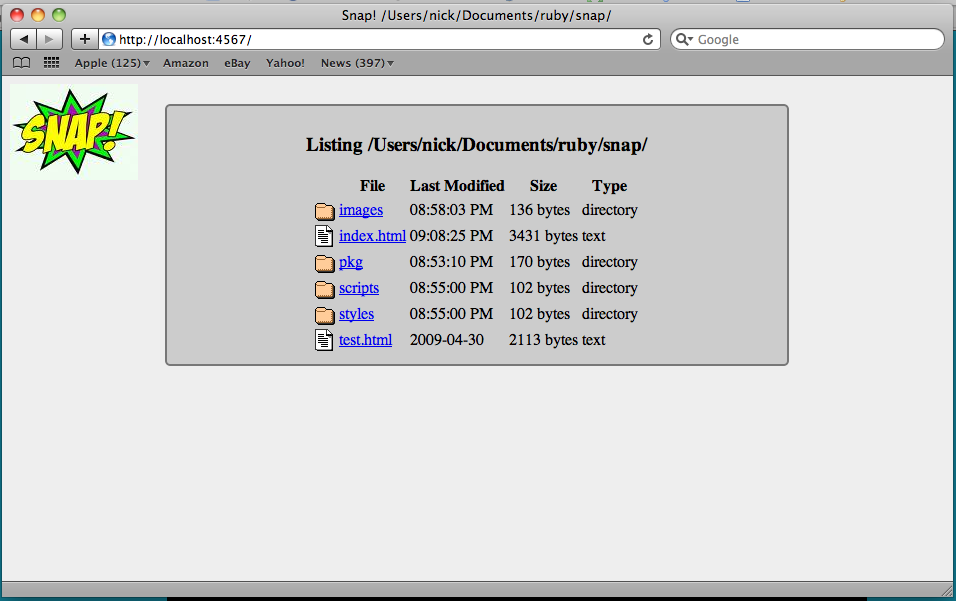
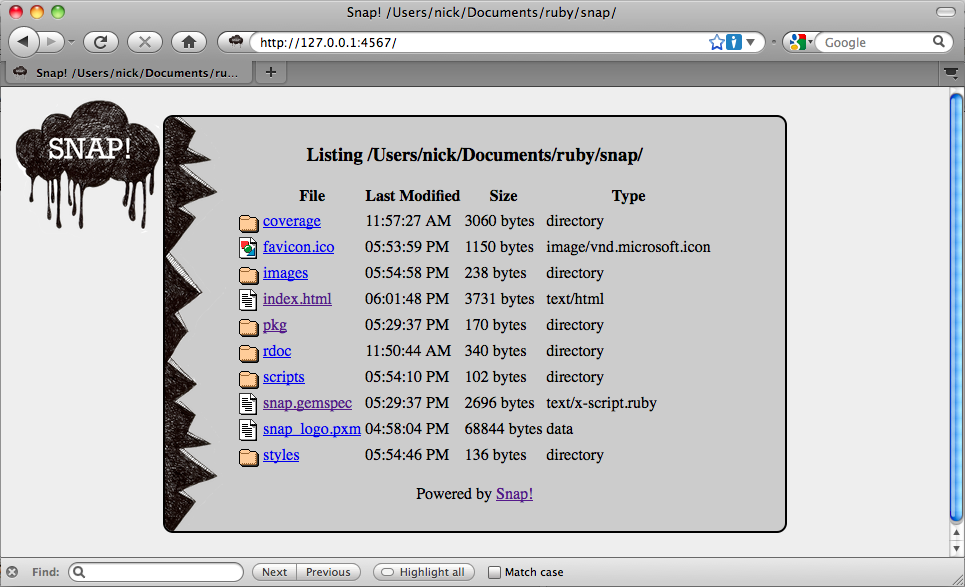
Updating look and feel.

diff --git a/index.html b/index.html
@@ -4,36 +4,17 @@
 <html xmlns="http://www.w3.org/1999/xhtml" xml:lang="en" lang="en">
 <head>
   <meta http-equiv="Content-Type" content="text/html; charset=utf-8"/>
-
-  <title>nstielau/snap @ GitHub</title>
-  
-  <style type="text/css">
-    body {
-      margin-top: 1.0em;
-      background-color: #1189a2;
-      font-family: "Helvetica,Arial,FreeSans"; 
-      color: #ffffff;
-    }
-    #container {
-      margin: 0 auto;
-      width: 700px;
-    }
-    h1 { font-size: 3.8em; color: #ee765d; margin-bottom: 3px; }
-    h1 .small { font-size: 0.4em; }
-    h1 a { text-decoration: none }
-    h2 { font-size: 1.5em; color: #ee765d; }
-    h3 { text-align: center; color: #ee765d; }
-    a { color: #ee765d; }
-    .description { font-size: 1.2em; margin-bottom: 30px; margin-top: 30px; font-style: italic;}
-    .download { float: right; }
-    pre { background: #000; color: #fff; padding: 15px;}
-    hr { border: 0; width: 80%; border-bottom: 1px solid #aaa}
-    .footer { text-align:center; padding-top:30px; font-style: italic; }
-  </style>
-  
+  <link rel="shortcut icon" type="image/x-icon" href="favicon.ico">
+  <link rel="stylesheet" type="text/css" href="styles/styles.css" media="screen, print" />
+  <title>nstielau/snap @ GitHub</title>  
 </head>
 
 <body>
+  <div align="center">
+    <div id="wrapper" align="left">
+      <div id="content">
+
+  
   <a href="http://github.com/nstielau/snap"><img style="position: absolute; top: 0; right: 0; border: 0;" src="http://s3.amazonaws.com/github/ribbons/forkme_right_darkblue_121621.png" alt="Fork me on GitHub" /></a>
   <div id="container">
     <div class="download">
@@ -44,7 +25,7 @@
     </div>
       
     <h1>
-      <a href="http://github.com/nstielau/snap">snap</a> 
+            <a href="http://github.com/nstielau/snap"><img src='/images/snap_logo.png' style="border:none;"></a>
       <span class="small">by <a href="http://github.com/nstielau">nstielau</a></span>
     </h1>
 
@@ -138,6 +119,9 @@
     </div>
     
   </div>
-  
+
+    <div>  
+  <div>
+<div>
 </body>
 </html>

diff --git a/styles/styles.css b/styles/styles.css
@@ -1,0 +1,46 @@
+body {
+ background-color: #eee;
+}
+
+div#wrapper {
+ width: 800px;
+ padding: 10px;  
+}
+
+div#content {
+  background-color: #ccc;
+  background-image: url(/__snap__/mtns.png);
+  background-repeat: repeat-y;
+  background-postiion: left;
+  -moz-border-radius: 10px;
+  -webkit-border-radius: 10px;
+  border: 2px solid #000000;
+  padding: 10px;
+  padding-left: 45px;
+}
+
+pre { 
+  background: #000; 
+  color: #fff; 
+  padding: 15px;
+  border: 1px solid #ee765d;
+}
+
+
+#container {
+  margin: 0 auto;
+  width: 700px;
+}
+
+h1 { font-size: 3.8em; color: #000000; margin-bottom: 3px; }
+h1 .small { font-size: 0.4em; }
+h1 a { text-decoration: none }
+h2 { font-size: 1.5em; color: #000000; }
+h3 { text-align: center; color: #000000; }
+a { color: #ee765d; }
+
+.description { font-size: 1.2em; margin-bottom: 30px; margin-top: 30px; font-style: italic;}
+.download { float: right; }
+
+hr { border: 0; width: 80%; border-bottom: 1px solid #aaa}
+.footer { text-align:center; padding-top:30px; font-style: italic; }
